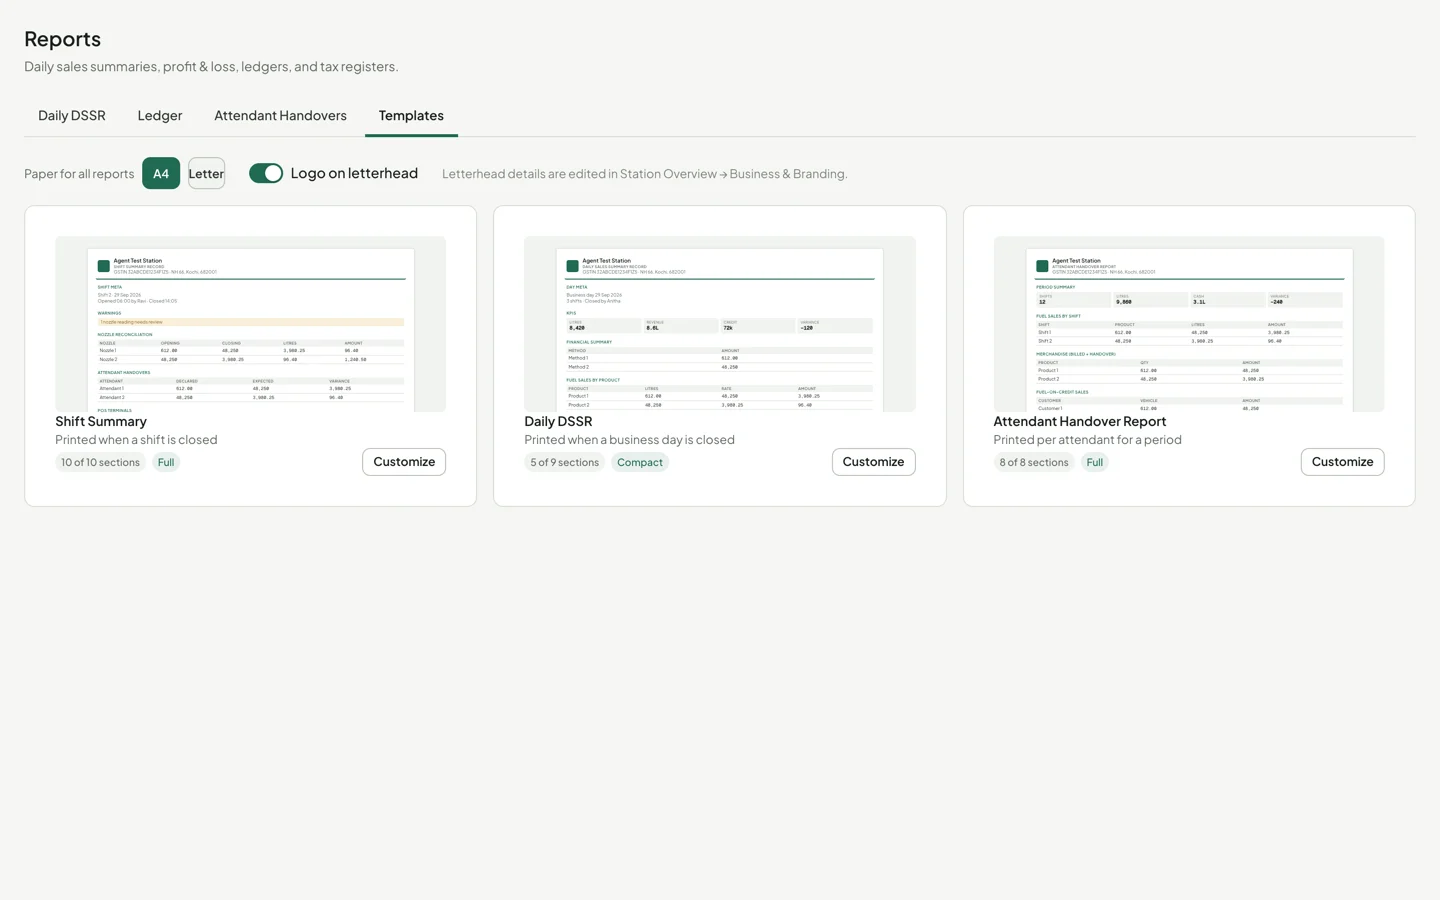
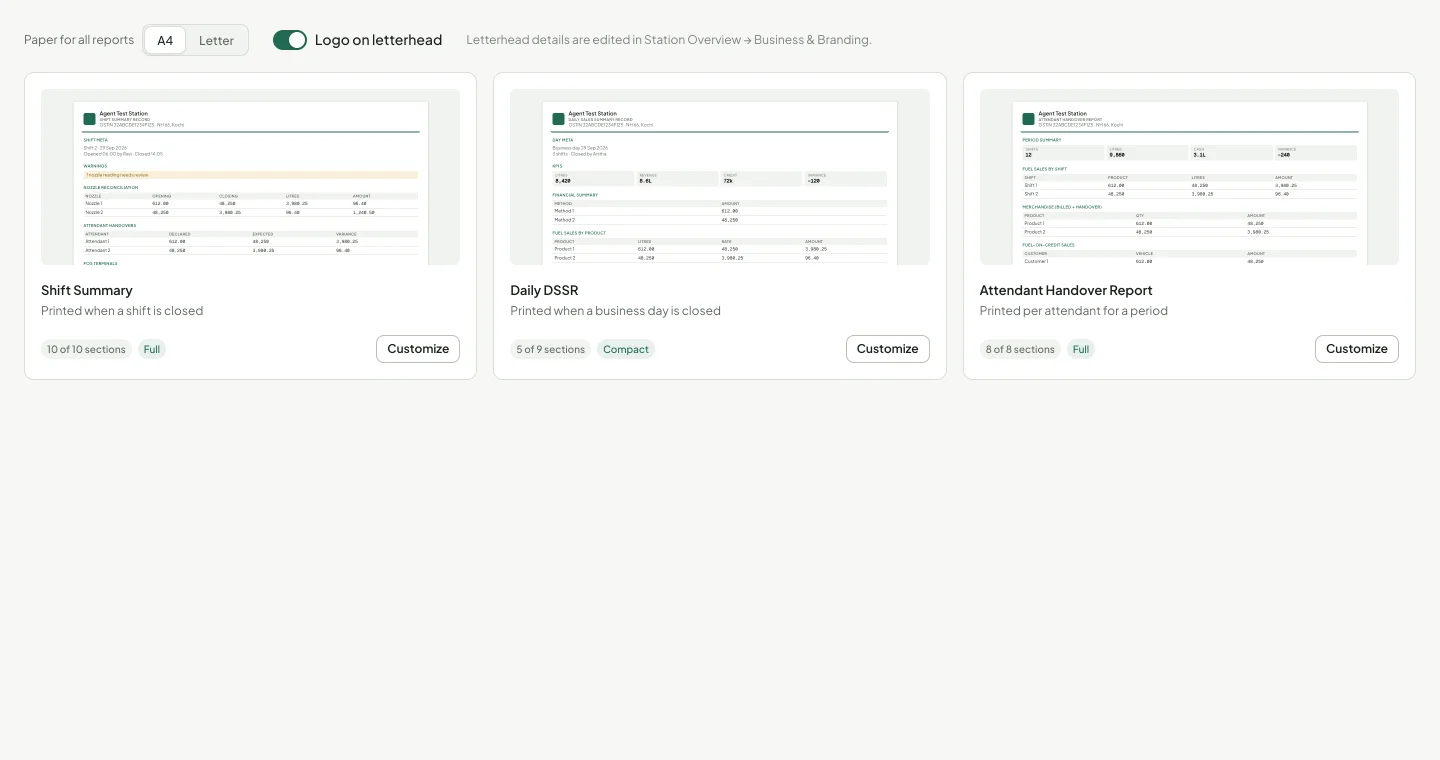
fix(reports): joined segmented control for paper size, space between card thumbnail and title (#332 follow-up)

diff --git a/packages/ui/src/components/reports/templates/ReportTemplatesPanel.tsx b/packages/ui/src/components/reports/templates/ReportTemplatesPanel.tsx
@@ -5,9 +5,8 @@ import { CloudStationService } from '../../../services/cloud.js';
 import { queryKeys } from '../../../query/hooks.js';
 import { useCapability } from '../../../access/CapabilityGate.js';
 import { useToast } from '../../primitives/ToastProvider.js';
-import { Segmented } from '../../primitives/Segmented.js';
 import { Switch } from '../../primitives/Toggle.js';
-import { Button, Chip, Panel } from '../../../pump-ds/index.js';
+import { Button, Chip, Panel, SegmentedControl } from '../../../pump-ds/index.js';
 import { paperFromStation } from '../../../services/reports/reportConfig.js';
 import { showLogoFromStation } from '../../../services/reports/letterhead.js';
 import {
@@ -84,12 +83,11 @@ export const ReportTemplatesPanel: React.FC<ReportTemplatesPanelProps> = ({ sele
       <div className="flex flex-wrap items-center gap-x-6 gap-y-2">
         <span className="flex items-center gap-2">
           <span className="text-[12px] text-ink-muted">Paper for all reports</span>
-          <Segmented<Paper>
-            size="sm"
+          <SegmentedControl<Paper>
             aria-label="Paper size"
             disabled={savingPage}
             value={paper}
-            onChange={(next) => next !== paper && void savePage({ paper: next })}
+            onChange={(next) => void savePage({ paper: next })}
             options={[
               { value: 'A4', label: 'A4' },
               { value: 'LETTER', label: 'Letter' },
@@ -148,35 +146,38 @@ const TemplateCard: React.FC<{
   const sections = sectionsFromStation(template, station);
   const isPreset = presetOf(template, sections) !== null;
   return (
-    <Panel data-testid={`template-card-${template.id}`} className="gap-3 p-3.5">
-      <ReportPaperPreview
-        template={template}
-        sections={sections}
-        station={station}
-        paper={paper}
-        showLogo={showLogo}
-        thumbnail
-      />
-      <div>
-        <div className="text-[13px] font-semibold text-ink-strong">{template.name}</div>
-        <div className="text-[12px] text-ink-muted">{template.when}</div>
-      </div>
-      <div className="flex items-center gap-1.5">
-        <Chip size="xs">
-          {enabledCount(sections)} of {sections.length} sections
-        </Chip>
-        <Chip size="xs" tone={isPreset ? 'brand' : 'neutral'}>
-          {presetLabel(template, sections)}
-        </Chip>
-        <span className="flex-1" />
-        <Button
-          variant="secondary"
-          size="xs"
-          onClick={onCustomize}
-          aria-label={`Customize ${template.name}`}
-        >
-          Customize
-        </Button>
+    <Panel data-testid={`template-card-${template.id}`}>
+      {/* Panel wraps children in its own body, so the spacing lives here. */}
+      <div className="flex flex-col gap-4">
+        <ReportPaperPreview
+          template={template}
+          sections={sections}
+          station={station}
+          paper={paper}
+          showLogo={showLogo}
+          thumbnail
+        />
+        <div className="flex flex-col gap-0.5">
+          <div className="text-[13px] font-semibold text-ink-strong">{template.name}</div>
+          <div className="text-[12px] text-ink-muted">{template.when}</div>
+        </div>
+        <div className="flex items-center gap-1.5">
+          <Chip size="xs">
+            {enabledCount(sections)} of {sections.length} sections
+          </Chip>
+          <Chip size="xs" tone={isPreset ? 'brand' : 'neutral'}>
+            {presetLabel(template, sections)}
+          </Chip>
+          <span className="flex-1" />
+          <Button
+            variant="secondary"
+            size="xs"
+            onClick={onCustomize}
+            aria-label={`Customize ${template.name}`}
+          >
+            Customize
+          </Button>
+        </div>
       </div>
     </Panel>
   );

diff --git a/packages/ui/src/pump-ds/segmented/SegmentedControl.tsx b/packages/ui/src/pump-ds/segmented/SegmentedControl.tsx
@@ -1,0 +1,65 @@
+import type { ReactNode } from 'react';
+import { cn } from '../lib/cn.js';
+
+export interface SegmentedControlOption<T extends string> {
+  value: T;
+  label: ReactNode;
+}
+
+export interface SegmentedControlProps<T extends string> {
+  options: readonly SegmentedControlOption<T>[];
+  value: T;
+  onChange: (value: T) => void;
+  disabled?: boolean;
+  'aria-label': string;
+  className?: string;
+}
+
+/**
+ * A compact joined segmented control: one track, the selected segment raised
+ * on it. For a short inline choice in a toolbar or settings row (paper size,
+ * view mode). Each segment is padded to its label, so short and long labels
+ * both read clearly.
+ */
+export function SegmentedControl<T extends string>({
+  options,
+  value,
+  onChange,
+  disabled,
+  className,
+  'aria-label': ariaLabel,
+}: SegmentedControlProps<T>) {
+  return (
+    <div
+      role="radiogroup"
+      aria-label={ariaLabel}
+      className={cn(
+        'inline-flex h-8 items-center gap-0.5 rounded-button border border-border-soft bg-surface-alt p-0.5',
+        disabled && 'opacity-60',
+        className,
+      )}
+    >
+      {options.map((opt) => {
+        const active = opt.value === value;
+        return (
+          <button
+            key={opt.value}
+            type="button"
+            role="radio"
+            aria-checked={active}
+            disabled={disabled}
+            onClick={() => !active && onChange(opt.value)}
+            className={cn(
+              'h-full rounded-[6px] px-3 text-[12px] font-medium transition-colors disabled:cursor-not-allowed',
+              active
+                ? 'bg-surface text-ink-strong shadow-sm ring-1 ring-border-soft'
+                : 'text-ink-muted hover:text-ink-strong',
+            )}
+          >
+            {opt.label}
+          </button>
+        );
+      })}
+    </div>
+  );
+}

diff --git a/packages/ui/src/pump-ds/segmented/SegmentedControl.dom.test.tsx b/packages/ui/src/pump-ds/segmented/SegmentedControl.dom.test.tsx
@@ -1,0 +1,32 @@
+// @vitest-environment jsdom
+import { afterEach, describe, expect, it, vi } from 'vitest';
+import { cleanup, fireEvent, render, screen } from '@testing-library/react';
+import { SegmentedControl } from './SegmentedControl.js';
+
+afterEach(cleanup);
+
+const options = [
+  { value: 'A4', label: 'A4' },
+  { value: 'LETTER', label: 'Letter' },
+] as const;
+
+describe('SegmentedControl', () => {
+  it('marks the selected segment and reports a new choice', () => {
+    const onChange = vi.fn();
+    render(
+      <SegmentedControl aria-label="Paper" options={options} value="A4" onChange={onChange} />,
+    );
+    expect(screen.getByRole('radio', { name: 'A4' }).getAttribute('aria-checked')).toBe('true');
+    fireEvent.click(screen.getByRole('radio', { name: 'Letter' }));
+    expect(onChange).toHaveBeenCalledWith('LETTER');
+  });
+
+  it('does not report a click on the segment already selected', () => {
+    const onChange = vi.fn();
+    render(
+      <SegmentedControl aria-label="Paper" options={options} value="A4" onChange={onChange} />,
+    );
+    fireEvent.click(screen.getByRole('radio', { name: 'A4' }));
+    expect(onChange).not.toHaveBeenCalled();
+  });
+});

diff --git a/packages/ui/src/pump-ds/index.ts b/packages/ui/src/pump-ds/index.ts
@@ -29,3 +29,4 @@ export * from './sparkline/index.js';
 export * from './icon/index.js';
 export * from './brand/index.js';
 export * from './boot/index.js';
+export * from './segmented/index.js';

diff --git a/packages/ui/src/pump-ds/segmented/index.ts b/packages/ui/src/pump-ds/segmented/index.ts
@@ -1,0 +1,2 @@
+export { SegmentedControl } from './SegmentedControl.js';
+export type { SegmentedControlProps, SegmentedControlOption } from './SegmentedControl.js';
